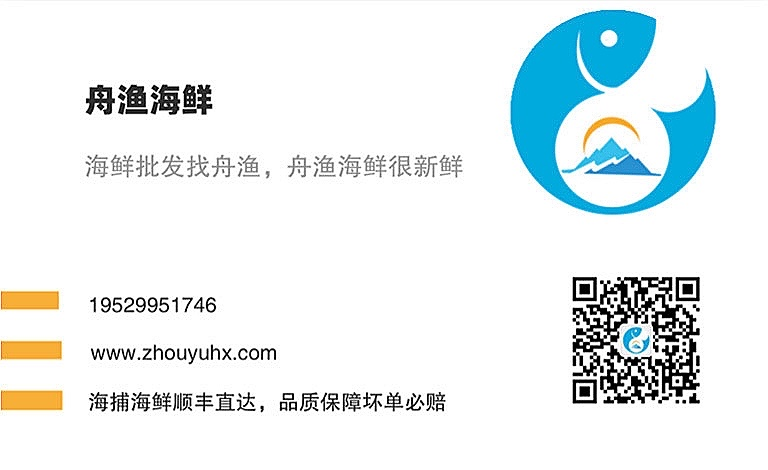
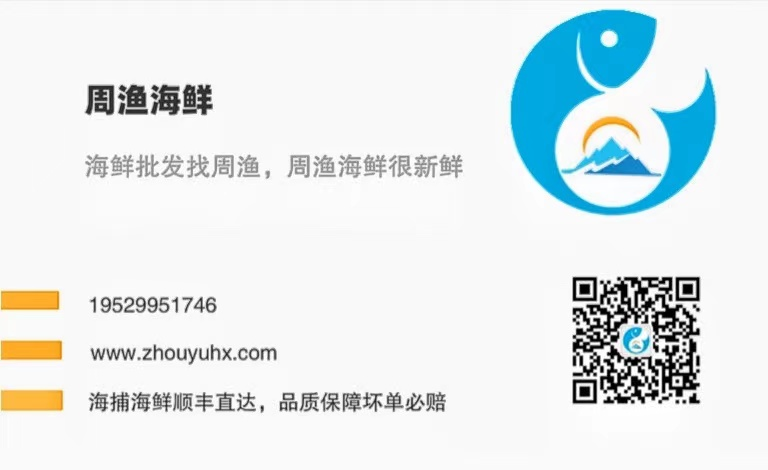
modify image

diff --git a/index.html b/index.html
@@ -42,7 +42,7 @@
 					</button>
 					<h1>
 						<a class="navbar-brand wow bounceIn animated" data-wow-delay=".5s" style="visibility: visible; -webkit-animation-delay: .5s;" href="index.html">
-							<img src="images/logo-plus.png" style="height: 60px;margin-top: -30px;float: left" alt="舟渔海鲜" />
+							<img src="images/logo-plus.png" style="height: 60px;margin-top: -30px;float: left" alt="周渔海鲜" />
 						</a>
 					</h1>
 				</div>
@@ -90,7 +90,7 @@
 						<li>
 							<div class="banner-text">
 								<h2>联系我们</h2>
-								<p>海鲜批发找舟渔，舟渔海鲜很新鲜，快来联系我们吧直接在小程序购买或微信联系我们。。。。。</p>
+								<p>海鲜批发找周渔，周渔海鲜很新鲜，快来联系我们吧直接在小程序购买或微信联系我们。。。。。</p>
 								<a class="more scroll" href="#contact"> 详情</a>
 							</div>
 						</li>
@@ -109,8 +109,8 @@
 			</div>
 			<div class="col-xs-8 about-right wow fadeInRight animated" data-wow-delay=".5s" style="visibility: visible; -webkit-animation-delay: .5s;">
 				<h4>周渔海鲜是一家采用“预订制”模式，通过全程冷链配送和社区智能冷柜自提方式，为用户提供优质生鲜服务的中国新零售领军企业。</h4>
-				<p>公司从家庭消费更多属于计划性消费这一底层逻辑出发，在深刻理解生鲜零售的第一性原理是要不断降低交易费用、提升用户体验的基础上，首创“预订制+全程冷链+冷柜自提”的运营模式，实现生鲜零库存，并通过集约化冷链配送，降低损耗和配送成本，成功解决生鲜电商领域一直以来普遍存在的高成本难题。依托高效的运营模式和完善的供应链体系，食行生鲜将为更多消费者带去新鲜、丰富、价优、安全的生鲜食材。
-					截至今年6月，食行生鲜已进驻苏州、上海、无锡三个城市3281个社区站点，服务超过281万户家庭。目前，食行生鲜已完成4轮融资，共计7.64亿元。</p>
+				<p>在深刻理解生鲜零售的第一性原理是要不断降低交易费用、提升用户体验的基础上，首创“预订制+全程冷链+冷柜自提”的运营模式，实现生鲜零库存，并通过集约化冷链配送，降低损耗和配送成本，成功解决生鲜电商领域一直以来普遍存在的高成本难题。依托高效的运营模式和完善的供应链体系，食行生鲜将为更多消费者带去新鲜、丰富、价优、安全的生鲜食材。
+					截至今年6月，食行生鲜已服务超过281万户家庭。</p>
 			</div>
 			<div class="clearfix"> </div>
 		</div>
@@ -122,17 +122,17 @@
 			<div>
 				<div class="col-sm-4  view border0">
 					<div class=''>
-						<img src="./images/0.jpg" style="width: 100%;height: 100%"/>
+						<img src="./images/matou.jpeg" style="width: 100%;height: 100%"/>
 					</div>
 				</div>
 				<div class="col-sm-4  view border0">
 					<div class=''>
-						<img src="./images/0.jpg" style="width: 100%;height: 100%"/>
+						<img src="./images/shunfeng.jpeg" style="width: 100%;height: 100%"/>
 					</div>
 				</div>
 				<div class="col-sm-4  view border0">
 					<div class=''>
-						<img src="./images/0.jpg" style="width: 100%;height: 100%"/>
+						<img src="./images/songhuo.jpeg" style="width: 100%;height: 100%"/>
 					</div>
 				</div>
 				<div class="clearfix"> </div>
@@ -169,10 +169,10 @@
 			<h3 class="title"><span>海鲜种类</span></h3>
 			<div class="hx-type-grids">
 				<div class="col-md-4 port-grids view view-fourth">
-					<a class="example-image-link" href="images/img2.jpg" data-lightbox="example-set" data-title="">
-						<img src="images/img2.jpg" class="img-responsive" alt=""/>
+					<a class="example-image-link" href="images/img6.jpg" data-lightbox="example-set" data-title="">
+						<img src="images/img6.jpg" class="img-responsive" alt=""/>
 						<div class="mask">
-							<p>Duis aute irure dolor in reprehenderit in voluptate velit cillum dolore fugiat.</p>
+							<p>美味海鲜周渔批发，周渔海鲜确实很新鲜</p>
 						</div>
 					</a>
 				</div>
@@ -180,7 +180,7 @@
 					<a class="example-image-link" href="images/img3.jpg" data-lightbox="example-set" data-title="">
 						<img src="images/img3.jpg" class="img-responsive" alt=""/>
 						<div class="mask">
-							<p>Duis aute irure dolor in reprehenderit in voluptate velit cillum dolore fugiat.</p>
+							<p>美味海鲜周渔批发，周渔海鲜确实很新鲜</p>
 						</div>
 					</a>
 				</div>
@@ -188,7 +188,7 @@
 					<a class="example-image-link" href="images/img4.jpg" data-lightbox="example-set" data-title="">
 						<img src="images/img4.jpg" class="img-responsive" alt=""/>
 						<div class="mask">
-							<p>Duis aute irure dolor in reprehenderit in voluptate velit cillum dolore fugiat.</p>
+							<p>美味海鲜周渔批发，周渔海鲜确实很新鲜</p>
 						</div>
 					</a>
 				</div>
@@ -196,15 +196,15 @@
 					<a class="example-image-link" href="images/img5.jpg" data-lightbox="example-set" data-title="">
 						<img src="images/img5.jpg" class="img-responsive" alt=""/>
 						<div class="mask">
-							<p>Duis aute irure dolor in reprehenderit in voluptate velit cillum dolore fugiat.</p>
+							<p>美味海鲜周渔批发，周渔海鲜确实很新鲜</p>
 						</div>
 					</a>
 				</div>
 				<div class="col-md-4 port-grids view view-fourth">
 					<a class="example-image-link" href="images/img6.jpg" data-lightbox="example-set" data-title="">
-						<img src="images/img6.jpg" class="img-responsive" alt=""/>
+						<img src="images/wechat2.jpeg" class="img-responsive" alt=""/>
 						<div class="mask">
-							<p>Duis aute irure dolor in reprehenderit in voluptate velit cillum dolore fugiat.</p>
+							<p>美味海鲜周渔批发，周渔海鲜确实很新鲜</p>
 						</div>
 					</a>
 				</div>
@@ -212,7 +212,7 @@
 					<a class="example-image-link" href="images/img7.jpg" data-lightbox="example-set" data-title="">
 						<img src="images/img7.jpg" class="img-responsive" alt=""/>
 						<div class="mask">
-							<p>Duis aute irure dolor in reprehenderit in voluptate velit cillum dolore fugiat.</p>
+							<p>美味海鲜周渔批发，周渔海鲜确实很新鲜</p>
 						</div>
 					</a>
 				</div>
@@ -220,7 +220,7 @@
 					<a class="example-image-link" href="images/img4.jpg" data-lightbox="example-set" data-title="">
 						<img src="images/img4.jpg" class="img-responsive" alt=""/>
 						<div class="mask">
-							<p>Duis aute irure dolor in reprehenderit in voluptate velit cillum dolore fugiat.</p>
+							<p>美味海鲜周渔批发，周渔海鲜确实很新鲜</p>
 						</div>
 					</a>
 				</div>
@@ -228,7 +228,7 @@
 					<a class="example-image-link" href="images/img1.jpg" data-lightbox="example-set" data-title="">
 						<img src="images/img1.jpg" class="img-responsive" alt=""/>
 						<div class="mask">
-							<p>Duis aute irure dolor in reprehenderit in voluptate velit cillum dolore fugiat.</p>
+							<p>美味海鲜周渔批发，周渔海鲜确实很新鲜</p>
 						</div>
 					</a>
 				</div>
@@ -236,7 +236,7 @@
 					<a class="example-image-link" href="images/img5.jpg" data-lightbox="example-set" data-title="">
 						<img src="images/img5.jpg" class="img-responsive" alt=""/>
 						<div class="mask">
-							<p>Duis aute irure dolor in reprehenderit in voluptate velit cillum dolore fugiat.</p>
+							<p>美味海鲜周渔批发，周渔海鲜确实很新鲜</p>
 						</div>
 					</a>
 				</div>
